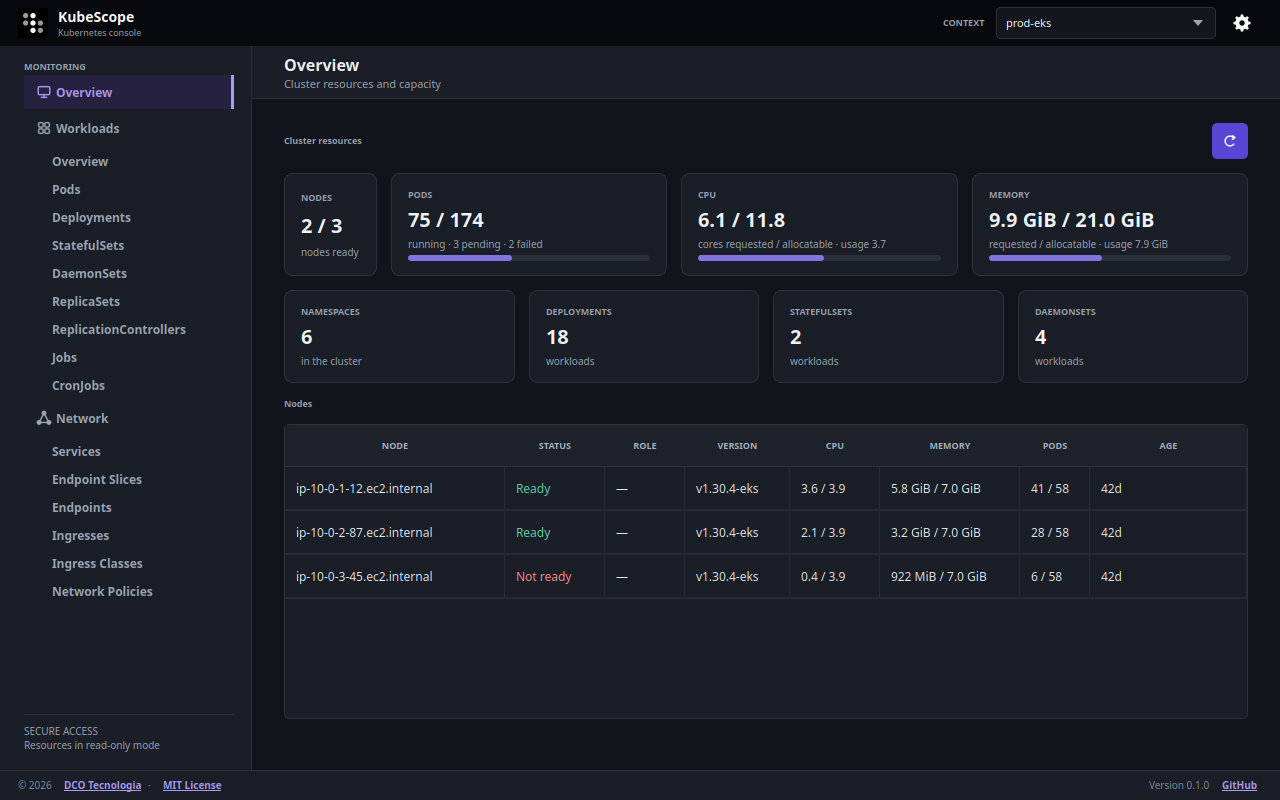
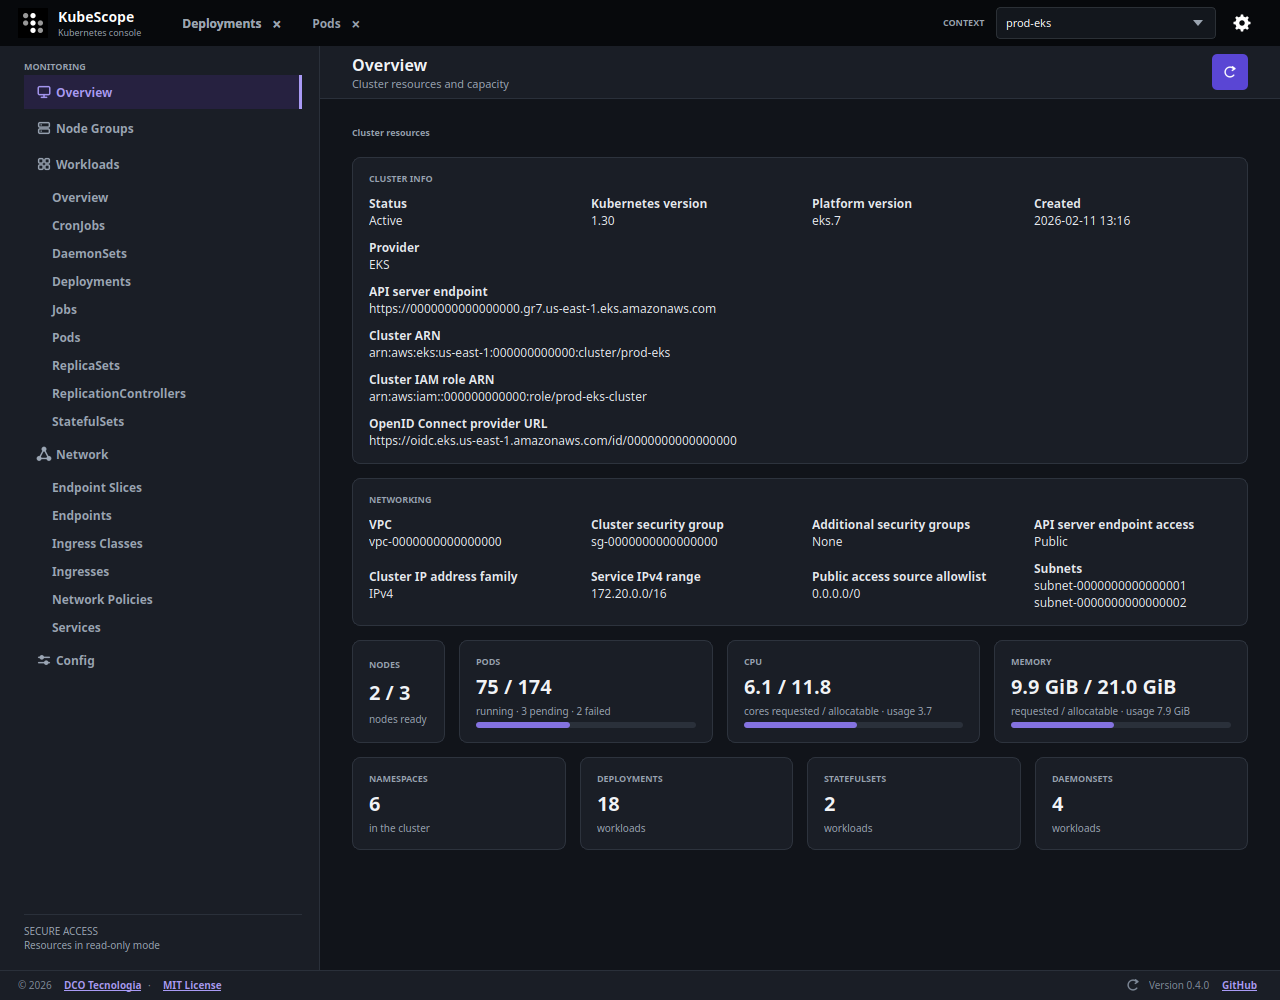
docs: refresh the overview screenshot
The Overview now has the Cluster info and Networking cards, the Nodes table
left it, and lists can be pinned as tabs in the top bar. The preview answers
for an Amazon EKS context with fake data (zeroed IDs, no real account or
cluster) and pins two lists, so the screenshot shows them. It is taller, as
the page has more cards.

diff --git a/tools/preview.py b/tools/preview.py
@@ -18,7 +18,14 @@ from PySide6.QtWidgets import QApplication
 
 from kubescope import window
 from kubescope.fonts import apply_fonts
-from kubescope.models import ClusterOverview, NodeInfo, PodInfo, Workload
+from kubescope.models import (
+    ClusterInfo,
+    ClusterOverview,
+    ClusterResource,
+    NodeInfo,
+    PodInfo,
+    Workload,
+)
 from kubescope.theme import apply_theme
 
 # The preview must never read or overwrite the real user settings.
@@ -89,7 +96,55 @@ def fake_overview(_context: str) -> ClusterOverview:
     )
 
 
+FAKE_INFO = ClusterInfo(
+    status="Active",
+    version="1.30",
+    platform_version="eks.7",
+    created="2026-02-11 13:16",
+    provider="EKS",
+    endpoint="https://0000000000000000.gr7.us-east-1.eks.amazonaws.com",
+    arn="arn:aws:eks:us-east-1:000000000000:cluster/prod-eks",
+    role_arn="arn:aws:iam::000000000000:role/prod-eks-cluster",
+    oidc_issuer="https://oidc.eks.us-east-1.amazonaws.com/id/0000000000000000",
+    vpc_id="vpc-0000000000000000",
+    subnets=("subnet-0000000000000001", "subnet-0000000000000002"),
+    security_group="sg-0000000000000000",
+    ip_family="IPv4",
+    service_cidr="172.20.0.0/16",
+    endpoint_access="Public",
+    public_access_cidrs=("0.0.0.0/0",),
+)
+FAKE_RESOURCES = {
+    "NodeGroup": [
+        ClusterResource(
+            "",
+            "NodeGroup",
+            "apps",
+            (
+                "ACTIVE",
+                "m5.large",
+                "3 (1–4)",
+                "AL2023_x86_64_STANDARD",
+                "1.30.4-20260901",
+            ),
+            "42d",
+        )
+    ],
+    "Addon": [
+        ClusterResource("", "Addon", "vpc-cni", ("ACTIVE", "v1.18.3", "EKS"), "42d"),
+        ClusterResource(
+            "monitoring", "HelmRelease", "grafana", ("deployed", "rev 4", "Helm"), "90d"
+        ),
+    ],
+}
+
 window.get_cluster_overview = fake_overview
+window.is_eks_context = lambda _context: True
+window.get_cluster_info = lambda _context: FAKE_INFO
+window.get_resources = lambda _context, _namespace, kind: (
+    [],
+    FAKE_RESOURCES.get(kind, []),
+)
 window.list_contexts = lambda: (["prod-eks", "staging-eks"], "prod-eks")
 window.get_workloads = lambda _context, namespace=None, kinds=(): (
     sorted({item.namespace for item in WORKLOADS}),
@@ -177,12 +232,15 @@ def main() -> int:
     apply_fonts(application)
     apply_theme(application)
     main_window = window.WorkloadWindow()
-    main_window.resize(1280, 800)
+    main_window.resize(1280, 1000)
     main_window.show()
     if len(sys.argv) > 1:
         page = sys.argv[2] if len(sys.argv) > 2 else "overview"
         wait_until_idle(application, main_window)
         open_menus(application, main_window)
+        for view in ("deployments", "pods"):  # tabs in the top bar
+            main_window._toggle_pin(view)
+        wait_until_idle(application, main_window)
         if page in ("workloads", "deployments"):
             main_window.nav_deployments.click()
             wait_until_idle(application, main_window)
